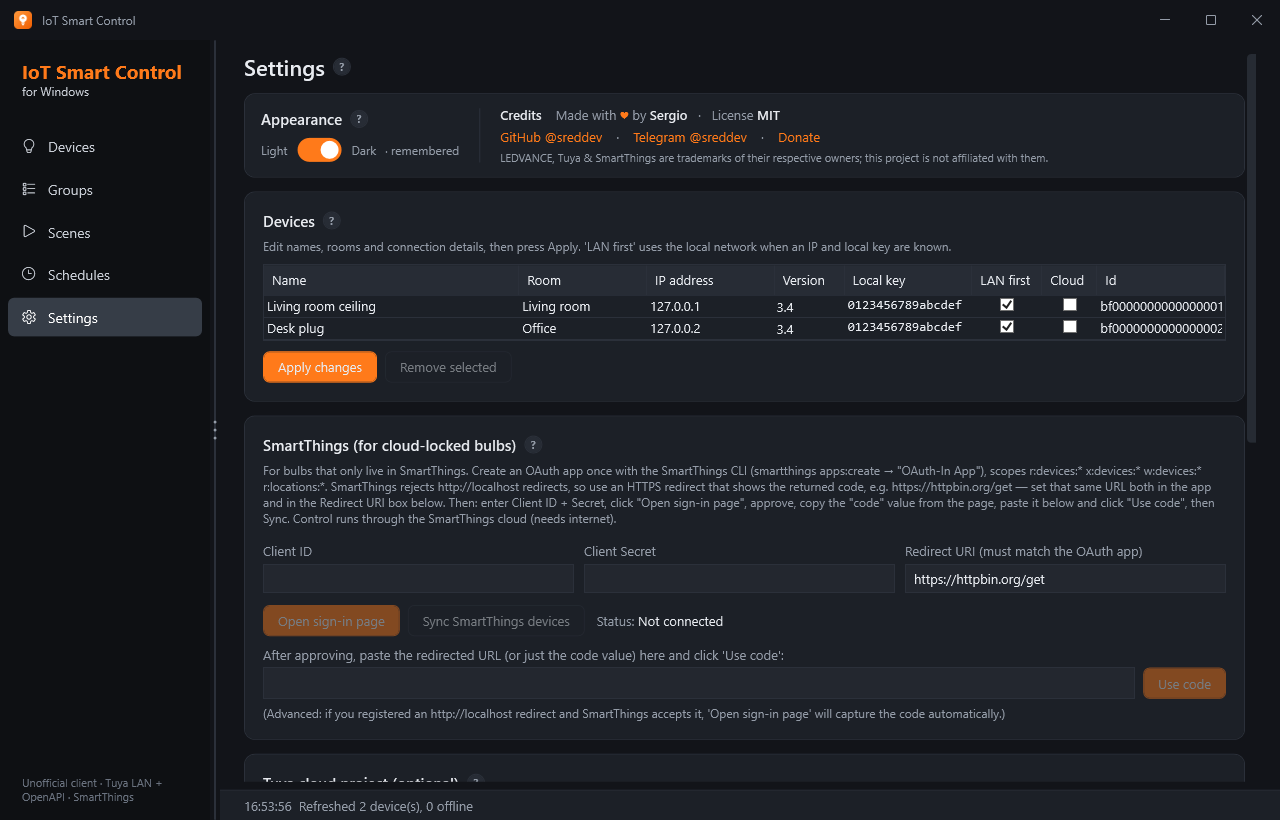
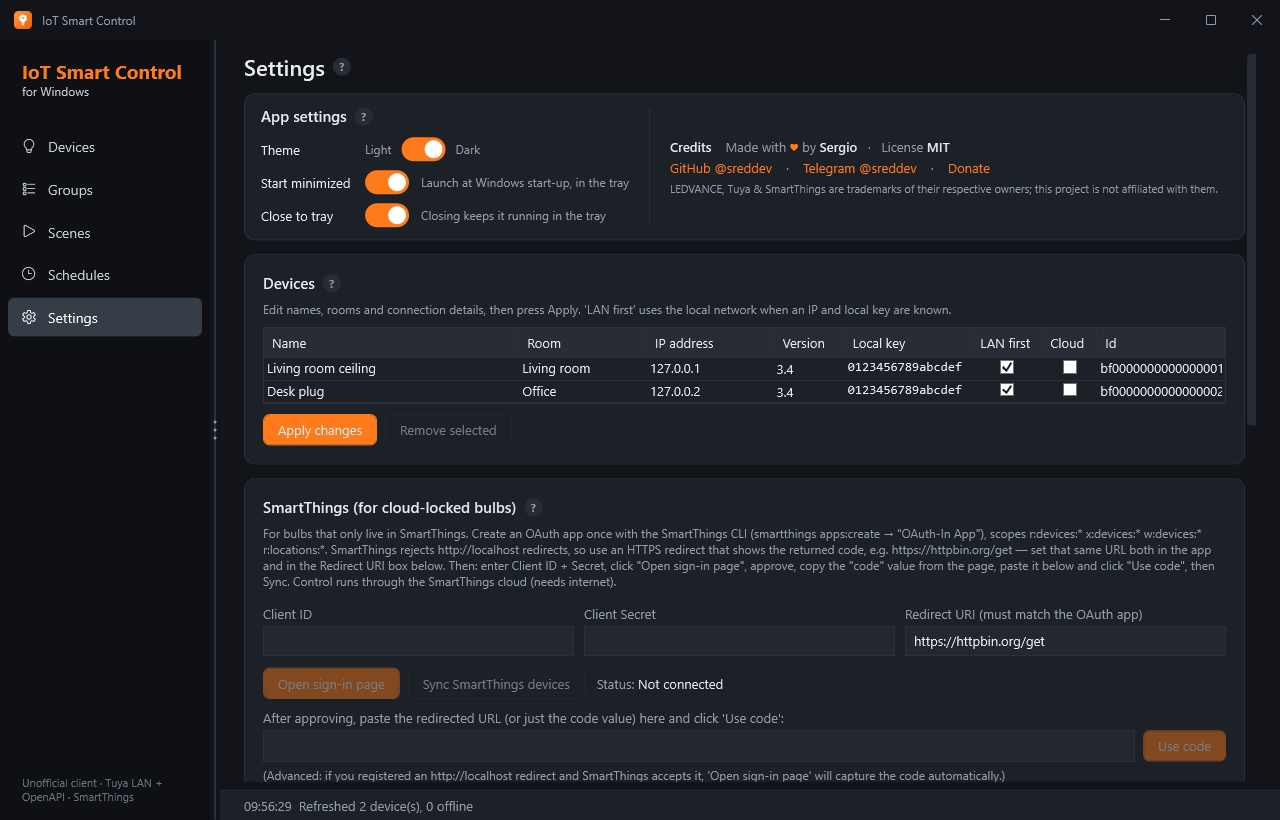
Rename Appearance to "App settings"; add Start minimized + Close to tray
- App settings card now holds three toggles: Theme (Light/Dark), Start minimized
  and Close to tray (both default on).
- Start minimized: registers a per-user autostart entry ("<exe>" --minimized) via
  StartupManager; App.OnStartup opens straight into the tray (no window) when
  launched with that flag, otherwise shows normally. Skipped for MSIX-packaged runs.
- Close to tray: closing the window hides to the tray (schedules keep running)
  instead of exiting; tray Exit quits. Replaces the old schedules-only behavior.
- App now uses ShutdownMode=OnExplicitShutdown and creates/shows the window in
  App.OnStartup instead of StartupUri, so a tray-only (never-shown) start works.
- Config gains StartMinimized/CloseToTray (default true); help + screenshot updated.

diff --git a/src/LedvanceControl.App/Views/SettingsView.xaml b/src/LedvanceControl.App/Views/SettingsView.xaml
@@ -19,18 +19,33 @@
                         <ColumnDefinition Width="*" />
                     </Grid.ColumnDefinitions>
 
-                    <!-- Appearance -->
+                    <!-- App settings -->
                     <StackPanel Grid.Column="0" VerticalAlignment="Center" Margin="0,0,20,0">
-                        <StackPanel Orientation="Horizontal" Margin="0,0,0,9">
-                            <TextBlock Text="Appearance" Style="{StaticResource H2}" Margin="0" VerticalAlignment="Center" />
+                        <StackPanel Orientation="Horizontal" Margin="0,0,0,11">
+                            <TextBlock Text="App settings" Style="{StaticResource H2}" Margin="0" VerticalAlignment="Center" />
                             <views:HelpButton Topic="Settings.Appearance" Margin="8,0,0,0" VerticalAlignment="Center" />
                         </StackPanel>
-                        <StackPanel Orientation="Horizontal">
+                        <!-- Theme -->
+                        <StackPanel Orientation="Horizontal" Margin="0,0,0,9">
+                            <TextBlock Text="Theme" VerticalAlignment="Center" Width="104" />
                             <TextBlock Text="Light" Style="{StaticResource Muted}" VerticalAlignment="Center" Margin="0,0,10,0" />
                             <CheckBox Style="{StaticResource Switch}" VerticalAlignment="Center"
                                       IsChecked="{Binding DataContext.IsDarkTheme, RelativeSource={RelativeSource AncestorType=Window}}" />
                             <TextBlock Text="Dark" Style="{StaticResource Muted}" VerticalAlignment="Center" Margin="10,0,0,0" />
-                            <TextBlock Text="· remembered" Style="{StaticResource Muted}" FontSize="12" VerticalAlignment="Center" Margin="9,0,0,0" />
+                        </StackPanel>
+                        <!-- Start minimized -->
+                        <StackPanel Orientation="Horizontal" Margin="0,0,0,9">
+                            <TextBlock Text="Start minimized" VerticalAlignment="Center" Width="104" />
+                            <CheckBox Style="{StaticResource Switch}" VerticalAlignment="Center"
+                                      IsChecked="{Binding DataContext.StartMinimized, RelativeSource={RelativeSource AncestorType=Window}}" />
+                            <TextBlock Text="Launch at Windows start-up, in the tray" Style="{StaticResource Muted}" FontSize="12" VerticalAlignment="Center" Margin="12,0,0,0" />
+                        </StackPanel>
+                        <!-- Close to tray -->
+                        <StackPanel Orientation="Horizontal">
+                            <TextBlock Text="Close to tray" VerticalAlignment="Center" Width="104" />
+                            <CheckBox Style="{StaticResource Switch}" VerticalAlignment="Center"
+                                      IsChecked="{Binding DataContext.CloseToTray, RelativeSource={RelativeSource AncestorType=Window}}" />
+                            <TextBlock Text="Closing keeps it running in the tray" Style="{StaticResource Muted}" FontSize="12" VerticalAlignment="Center" Margin="12,0,0,0" />
                         </StackPanel>
                     </StackPanel>
 

diff --git a/src/LedvanceControl.App/App.xaml b/src/LedvanceControl.App/App.xaml
@@ -1,7 +1,7 @@
 <Application x:Class="LedvanceControl.App.App"
              xmlns="http://schemas.microsoft.com/winfx/2006/xaml/presentation"
              xmlns:x="http://schemas.microsoft.com/winfx/2006/xaml"
-             StartupUri="MainWindow.xaml">
+             ShutdownMode="OnExplicitShutdown">
     <Application.Resources>
         <ResourceDictionary>
             <ResourceDictionary.MergedDictionaries>

diff --git a/src/LedvanceControl.App/StartupManager.cs b/src/LedvanceControl.App/StartupManager.cs
@@ -1,0 +1,46 @@
+using System.Diagnostics;
+using System.IO;
+using Microsoft.Win32;
+
+namespace LedvanceControl.App;
+
+/// <summary>
+/// Registers the app to launch at Windows sign-in (minimised to the tray) via the per-user Run key.
+/// Skipped when running as a packaged (MSIX) app, where start-up is driven by the manifest StartupTask.
+/// </summary>
+public static class StartupManager
+{
+    private const string RunKey = @"Software\Microsoft\Windows\CurrentVersion\Run";
+    private const string ValueName = "IoTSmartControl";
+
+    public const string MinimizedArg = "--minimized";
+
+    private static string ExePath =>
+        Environment.ProcessPath ?? Process.GetCurrentProcess().MainModule!.FileName;
+
+    /// <summary>True for an MSIX-packaged run (exe lives under WindowsApps); Run-key autostart is not used there.</summary>
+    public static bool IsPackaged =>
+        ExePath.Contains(@"\WindowsApps\", StringComparison.OrdinalIgnoreCase);
+
+    /// <summary>Adds or removes the Run-key entry so it matches <paramref name="enabled"/>.</summary>
+    public static void Apply(bool enabled)
+    {
+        if (IsPackaged) return;
+        try
+        {
+            using var key = Registry.CurrentUser.OpenSubKey(RunKey, writable: true)
+                            ?? Registry.CurrentUser.CreateSubKey(RunKey);
+            if (key == null) return;
+            if (enabled) key.SetValue(ValueName, $"\"{ExePath}\" {MinimizedArg}");
+            else key.DeleteValue(ValueName, throwOnMissingValue: false);
+        }
+        catch
+        {
+            // Registry access can fail under locked-down policies; autostart is best-effort.
+        }
+    }
+
+    /// <summary>True when this process was started by the autostart entry (so it should open in the tray).</summary>
+    public static bool LaunchedMinimized =>
+        Environment.GetCommandLineArgs().Any(a => string.Equals(a, MinimizedArg, StringComparison.OrdinalIgnoreCase));
+}

diff --git a/src/LedvanceControl.App/Help/HelpTopics.cs b/src/LedvanceControl.App/Help/HelpTopics.cs
@@ -80,7 +80,7 @@ public static class HelpTopics
             Intro = "Connect your devices and configure the app. Each section below has its own ? with a detailed, step-by-step guide.",
             Steps =
             [
-                "Appearance — switch between Dark and Light themes.",
+                "App settings — theme, start-minimized (autostart to tray) and close-to-tray.",
                 "Tuya cloud project — link your Tuya account to import devices, local keys and schemas (this enables local LAN control).",
                 "SmartThings — connect bulbs that are brand-locked to LEDVANCE but visible in Samsung SmartThings.",
                 "Local network — discover device IP addresses for LAN control, or import a tinytuya devices.json.",
@@ -92,12 +92,13 @@ public static class HelpTopics
 
         ["Settings.Appearance"] = new()
         {
-            Title = "Appearance",
-            Intro = "Light and dark themes for the whole app.",
+            Title = "App settings",
+            Intro = "Appearance and start-up/close behaviour for the app.",
             Steps =
             [
-                "Toggle the switch to change between Light and Dark.",
-                "Dark is the default; your choice is applied immediately and remembered next launch.",
+                "Theme — toggle between Light and Dark. Dark is the default; the choice applies immediately and is remembered.",
+                "Start minimized — when on, the app launches automatically at Windows sign-in and opens straight into the system tray (default: on).",
+                "Close to tray — when on, closing the window keeps the app running in the tray (so schedules keep firing) instead of exiting; use the tray icon's Exit to quit (default: on).",
             ],
         },
 

diff --git a/src/LedvanceControl.App/MainWindow.xaml.cs b/src/LedvanceControl.App/MainWindow.xaml.cs
@@ -12,6 +12,7 @@ public partial class MainWindow : Window
     private readonly MainViewModel _vm = new();
     private readonly Forms.NotifyIcon _tray;
     private bool _exiting;
+    private bool _trayHintShown;
 
     public MainWindow()
     {
@@ -33,6 +34,10 @@ public partial class MainWindow : Window
             Visible = true,
         };
         _tray.DoubleClick += (_, _) => ShowFromTray();
+
+        // Keep the Windows autostart entry in sync with the saved setting. Whether this launch opens
+        // into the tray (started minimized) is decided in App.OnStartup.
+        StartupManager.Apply(_vm.Manager.Config.StartMinimized);
 
         StateChanged += (_, _) => UpdateMaxButton();
         Loaded += async (_, _) => await _vm.RefreshAllAsync();
@@ -123,11 +128,15 @@ public partial class MainWindow : Window
 
     protected override void OnClosing(CancelEventArgs e)
     {
-        if (!_exiting && _vm.Manager.Config.Schedules.Any(s => s.Enabled))
+        if (!_exiting && _vm.Manager.Config.CloseToTray)
         {
             e.Cancel = true;
             Hide();
-            _tray.ShowBalloonTip(3000, "Still running", "Schedules stay active. Right-click the tray icon to exit.", Forms.ToolTipIcon.Info);
+            if (!_trayHintShown)
+            {
+                _tray.ShowBalloonTip(3000, "Still running", "IoT Smart Control is in the tray — schedules stay active. Right-click the icon to exit.", Forms.ToolTipIcon.Info);
+                _trayHintShown = true;
+            }
             return;
         }
         base.OnClosing(e);

diff --git a/src/LedvanceControl.App/ViewModels/MainViewModel.cs b/src/LedvanceControl.App/ViewModels/MainViewModel.cs
@@ -71,6 +71,33 @@ public sealed class MainViewModel : ObservableObject, IAsyncDisposable
 
     public string ThemeLabel => IsDarkTheme ? "Dark" : "Light";
 
+    /// <summary>Launch at Windows start-up, minimised to the tray; persisted and applied to the Run key.</summary>
+    public bool StartMinimized
+    {
+        get => Manager.Config.StartMinimized;
+        set
+        {
+            if (Manager.Config.StartMinimized == value) return;
+            Manager.Config.StartMinimized = value;
+            Manager.Save();
+            StartupManager.Apply(value);
+            OnPropertyChanged();
+        }
+    }
+
+    /// <summary>Closing the window hides to the tray instead of exiting; persisted.</summary>
+    public bool CloseToTray
+    {
+        get => Manager.Config.CloseToTray;
+        set
+        {
+            if (Manager.Config.CloseToTray == value) return;
+            Manager.Config.CloseToTray = value;
+            Manager.Save();
+            OnPropertyChanged();
+        }
+    }
+
     public bool HasNoDevices => Devices.Count == 0;
 
     public string Page

diff --git a/src/LedvanceControl.App/App.xaml.cs b/src/LedvanceControl.App/App.xaml.cs
@@ -1,13 +1,20 @@
-using System.Configuration;
-using System.Data;
-using System.Windows;
+using System.Windows;
 
 namespace LedvanceControl.App;
 
-/// <summary>
-/// Interaction logic for App.xaml
-/// </summary>
+/// <summary>Interaction logic for App.xaml.</summary>
 public partial class App : Application
 {
-}
+    protected override void OnStartup(StartupEventArgs e)
+    {
+        base.OnStartup(e);
 
+        // The window is always created (its tray icon + view-model come up with it), but it is only
+        // shown when the app was NOT launched by the autostart entry. Started minimized, it lives in
+        // the tray until the user opens it. ShutdownMode is OnExplicitShutdown (see App.xaml) so the
+        // process keeps running with no visible window.
+        var window = new MainWindow();
+        MainWindow = window;
+        if (!StartupManager.LaunchedMinimized) window.Show();
+    }
+}

diff --git a/src/LedvanceControl.Core/Model/Models.cs b/src/LedvanceControl.Core/Model/Models.cs
@@ -121,6 +121,10 @@ public sealed class AppConfig
 {
     /// <summary>UI theme: "Dark" (default) or "Light".</summary>
     public string Theme { get; set; } = "Dark";
+    /// <summary>Launch at Windows start-up, minimised to the tray.</summary>
+    public bool StartMinimized { get; set; } = true;
+    /// <summary>Closing the window hides to the tray instead of exiting.</summary>
+    public bool CloseToTray { get; set; } = true;
     public CloudSettings Cloud { get; set; } = new();
     public SmartThingsSettings SmartThings { get; set; } = new();
     public List<DeviceConfig> Devices { get; set; } = [];

diff --git a/src/LedvanceControl.App/Microsoft store.md b/src/LedvanceControl.App/Microsoft store.md
@@ -1,0 +1,26 @@
+App structure (analysis)
+
+- LedvanceControl.App — WPF, net10.0-windows, WinExe, AssemblyName IoTSmartControl; uses WPF + a WinForms tray icon; custom WindowChrome titlebar. References:
+- LedvanceControl.Core — net10.0 class library (Tuya LAN/codec, Tuya OpenAPI, SmartThings, light/energy logic, config+DPAPI).
+- Config lives in %APPDATA%, secrets via DPAPI. It's a full-trust desktop app (tray, local sockets, file access) → packaged as a Desktop Bridge MSIX, not a sandboxed UWP.
+
+MSIX packaging added (packaging/)
+
+- AppxManifest.xml — Store-compliant: identity (Name/Publisher/Version 1.1.0.0, x64), Windows.Desktop MinVersion 10.0.17763, Windows.FullTrustApplication entry point, VisualElements (tiles + splash), capabilities runFullTrust + internetClient + privateNetworkClientServer.
+- Images/ — the complete visual-asset set generated from the Lumen icon: Square 44/71/150/310, Wide 310×150, StoreLogo 50, SplashScreen, and target-size app-list icons (16–256, plated + unplated), each at scale-100 and scale-200.
+- build-msix.ps1 — publishes self-contained (no .NET needed on target), stages manifest+assets, packs with makeappx; -Sign/-Install create/trust a self-signed cert for local sideload.
+- packaging/README.md — build/sideload steps, the Store requirements it satisfies, and the identity values to swap in before submission.
+
+Verified
+
+build-msix.ps1 produced a valid 72 MB x64 IoTSmartControl_1.1.0.0_x64.msix — makeappx pack and an unpack round-trip both succeeded. Committed and pushed (5bc5ae9); the .msix/cert outputs are git-ignored.
+
+To actually ship to the Store (your steps)
+
+1. Reserve the name in Partner Center, then from Product → Product identity copy the real Name, Publisher, and PublisherDisplayName into AppxManifest.xml (keep version revision 0).
+2. pwsh packaging/build-msix.ps1 (unsigned) and upload the .msix — the Store signs it; don't sign Store uploads.
+3. In Partner Center, justify runFullTrust (full-trust desktop app doing local-network device control) — routinely approved.
+
+Two things worth knowing:
+- Settings isolation: under MSIX, %APPDATA% is virtualized per-package, so the packaged app has its own config store — your current unpackaged connection won't carry into the packaged app (documented in packaging/README.md).
+- For a local test install, run pwsh packaging/build-msix.ps1 -Install elevated (it trusts the test cert and installs). Want me to also add an arm64 build to the same flow, or wire an optional .wapproj for Visual Studio-based submission?
